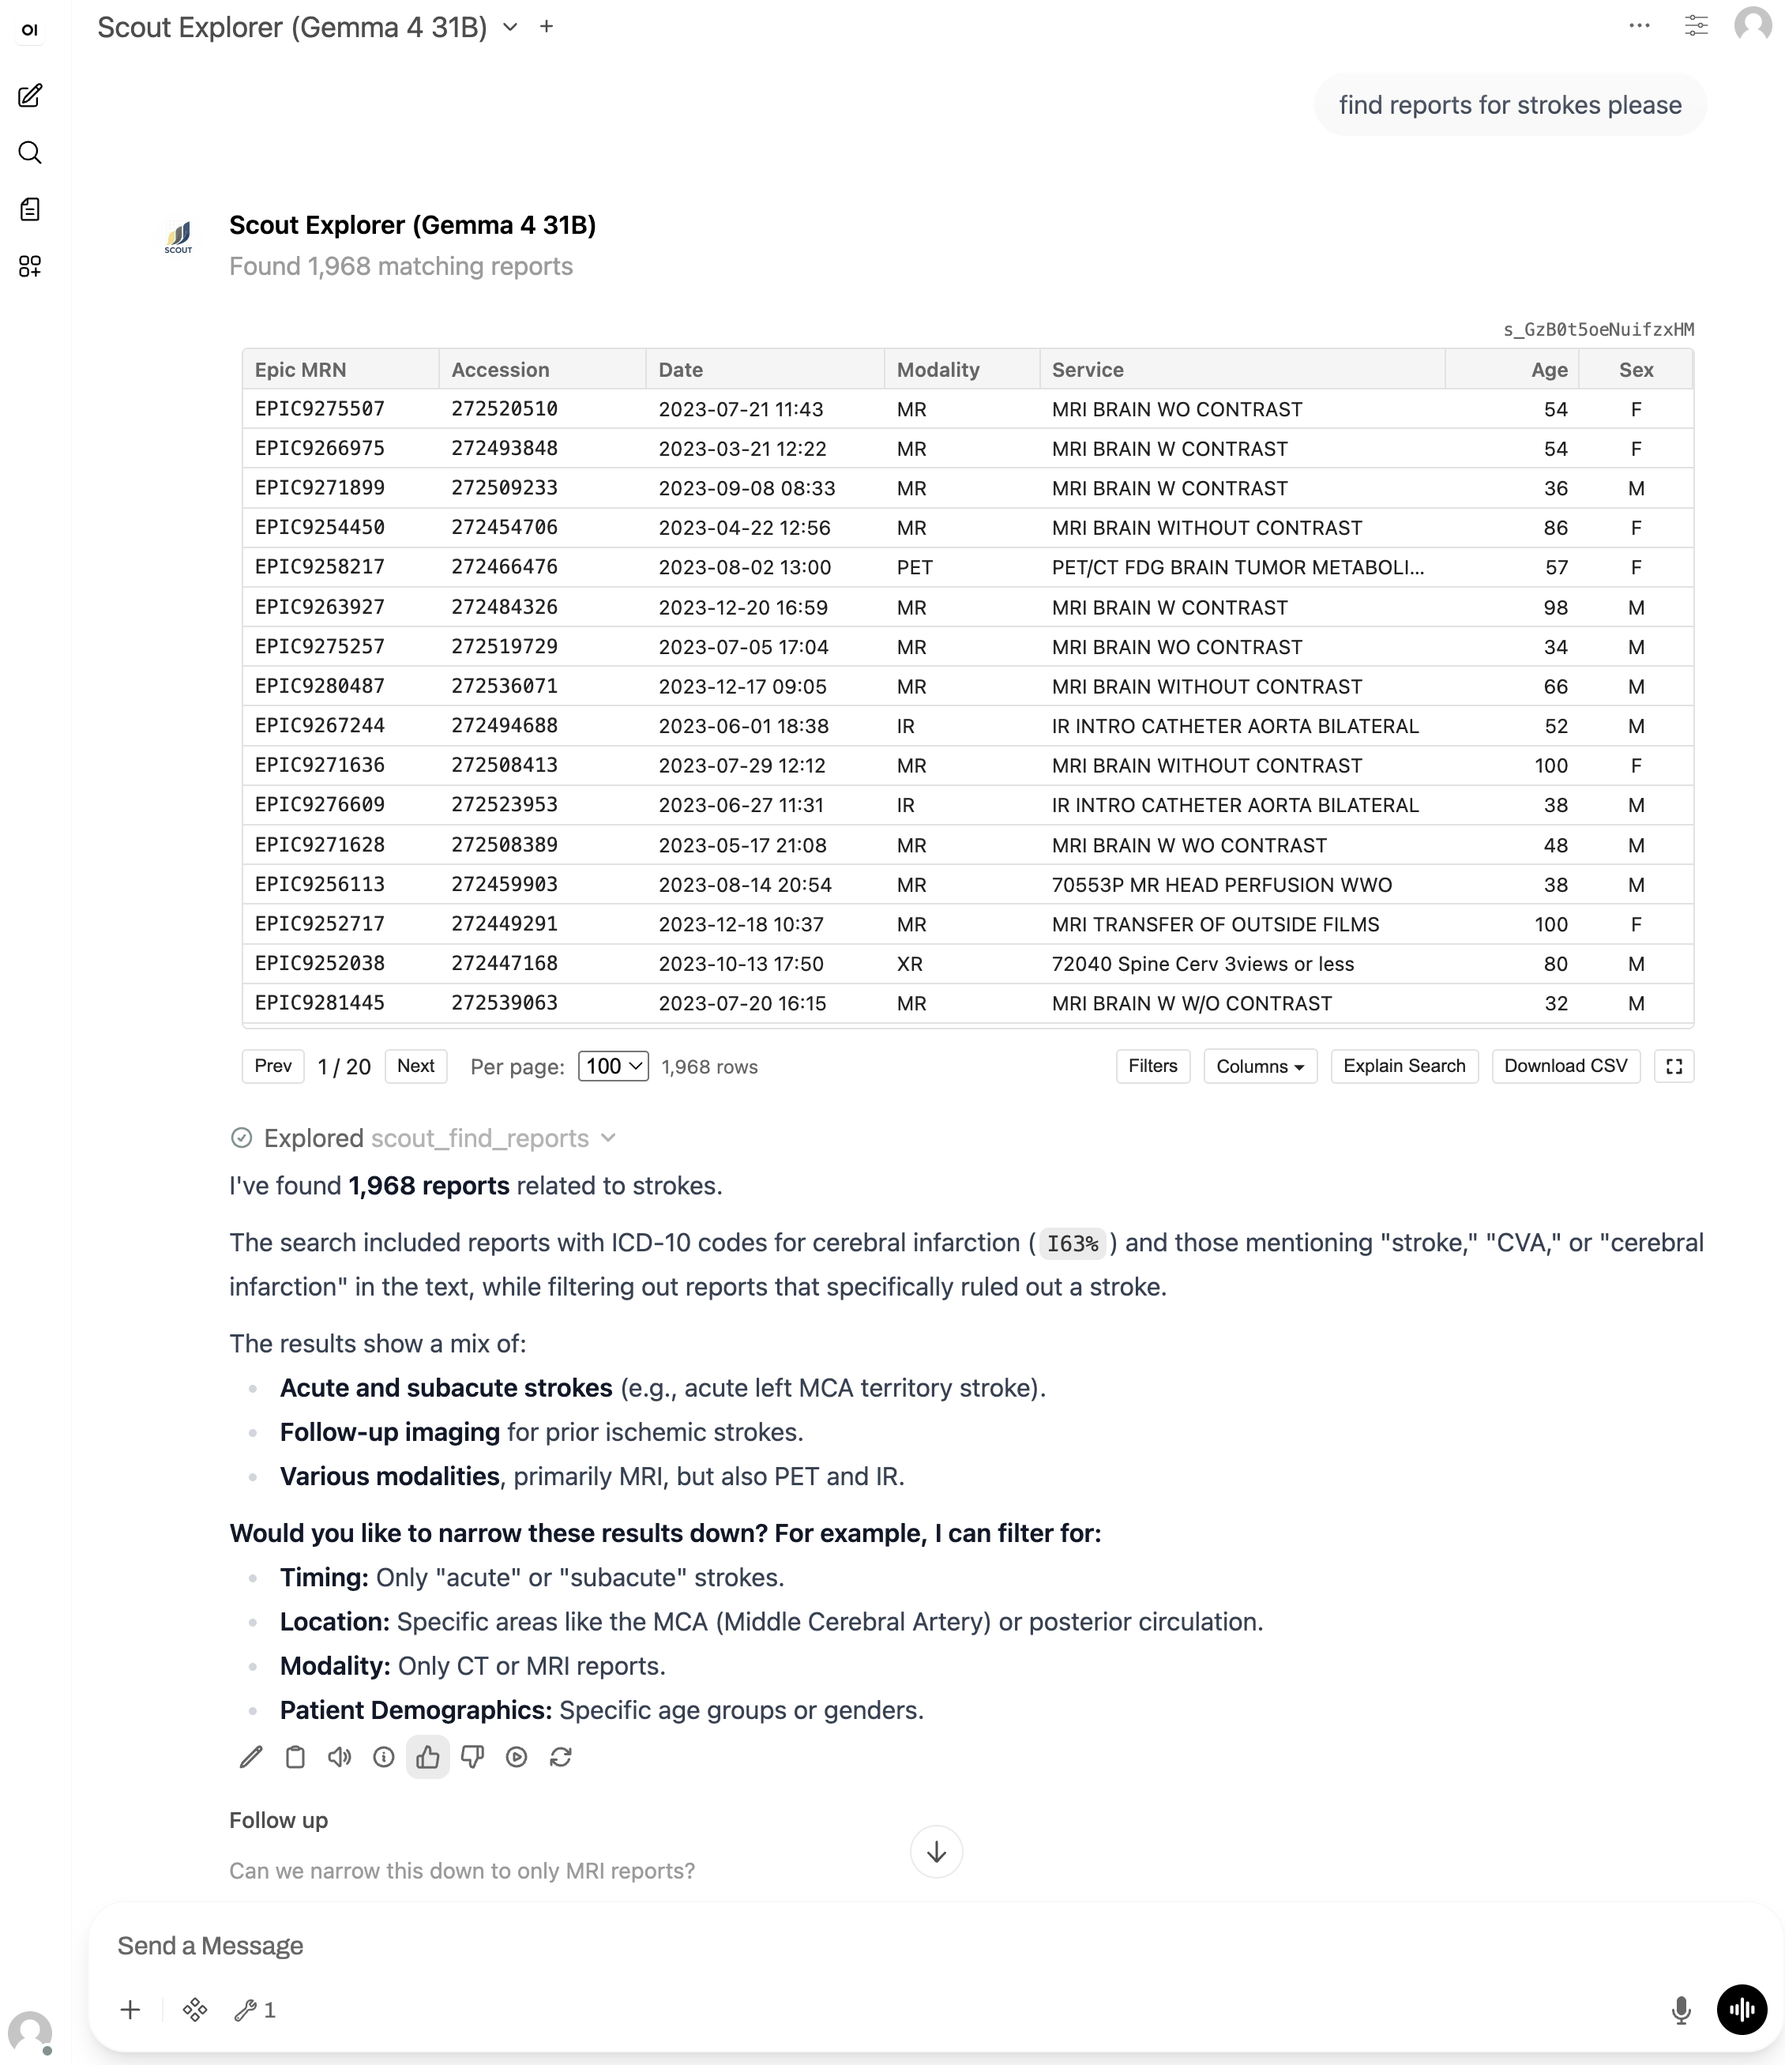
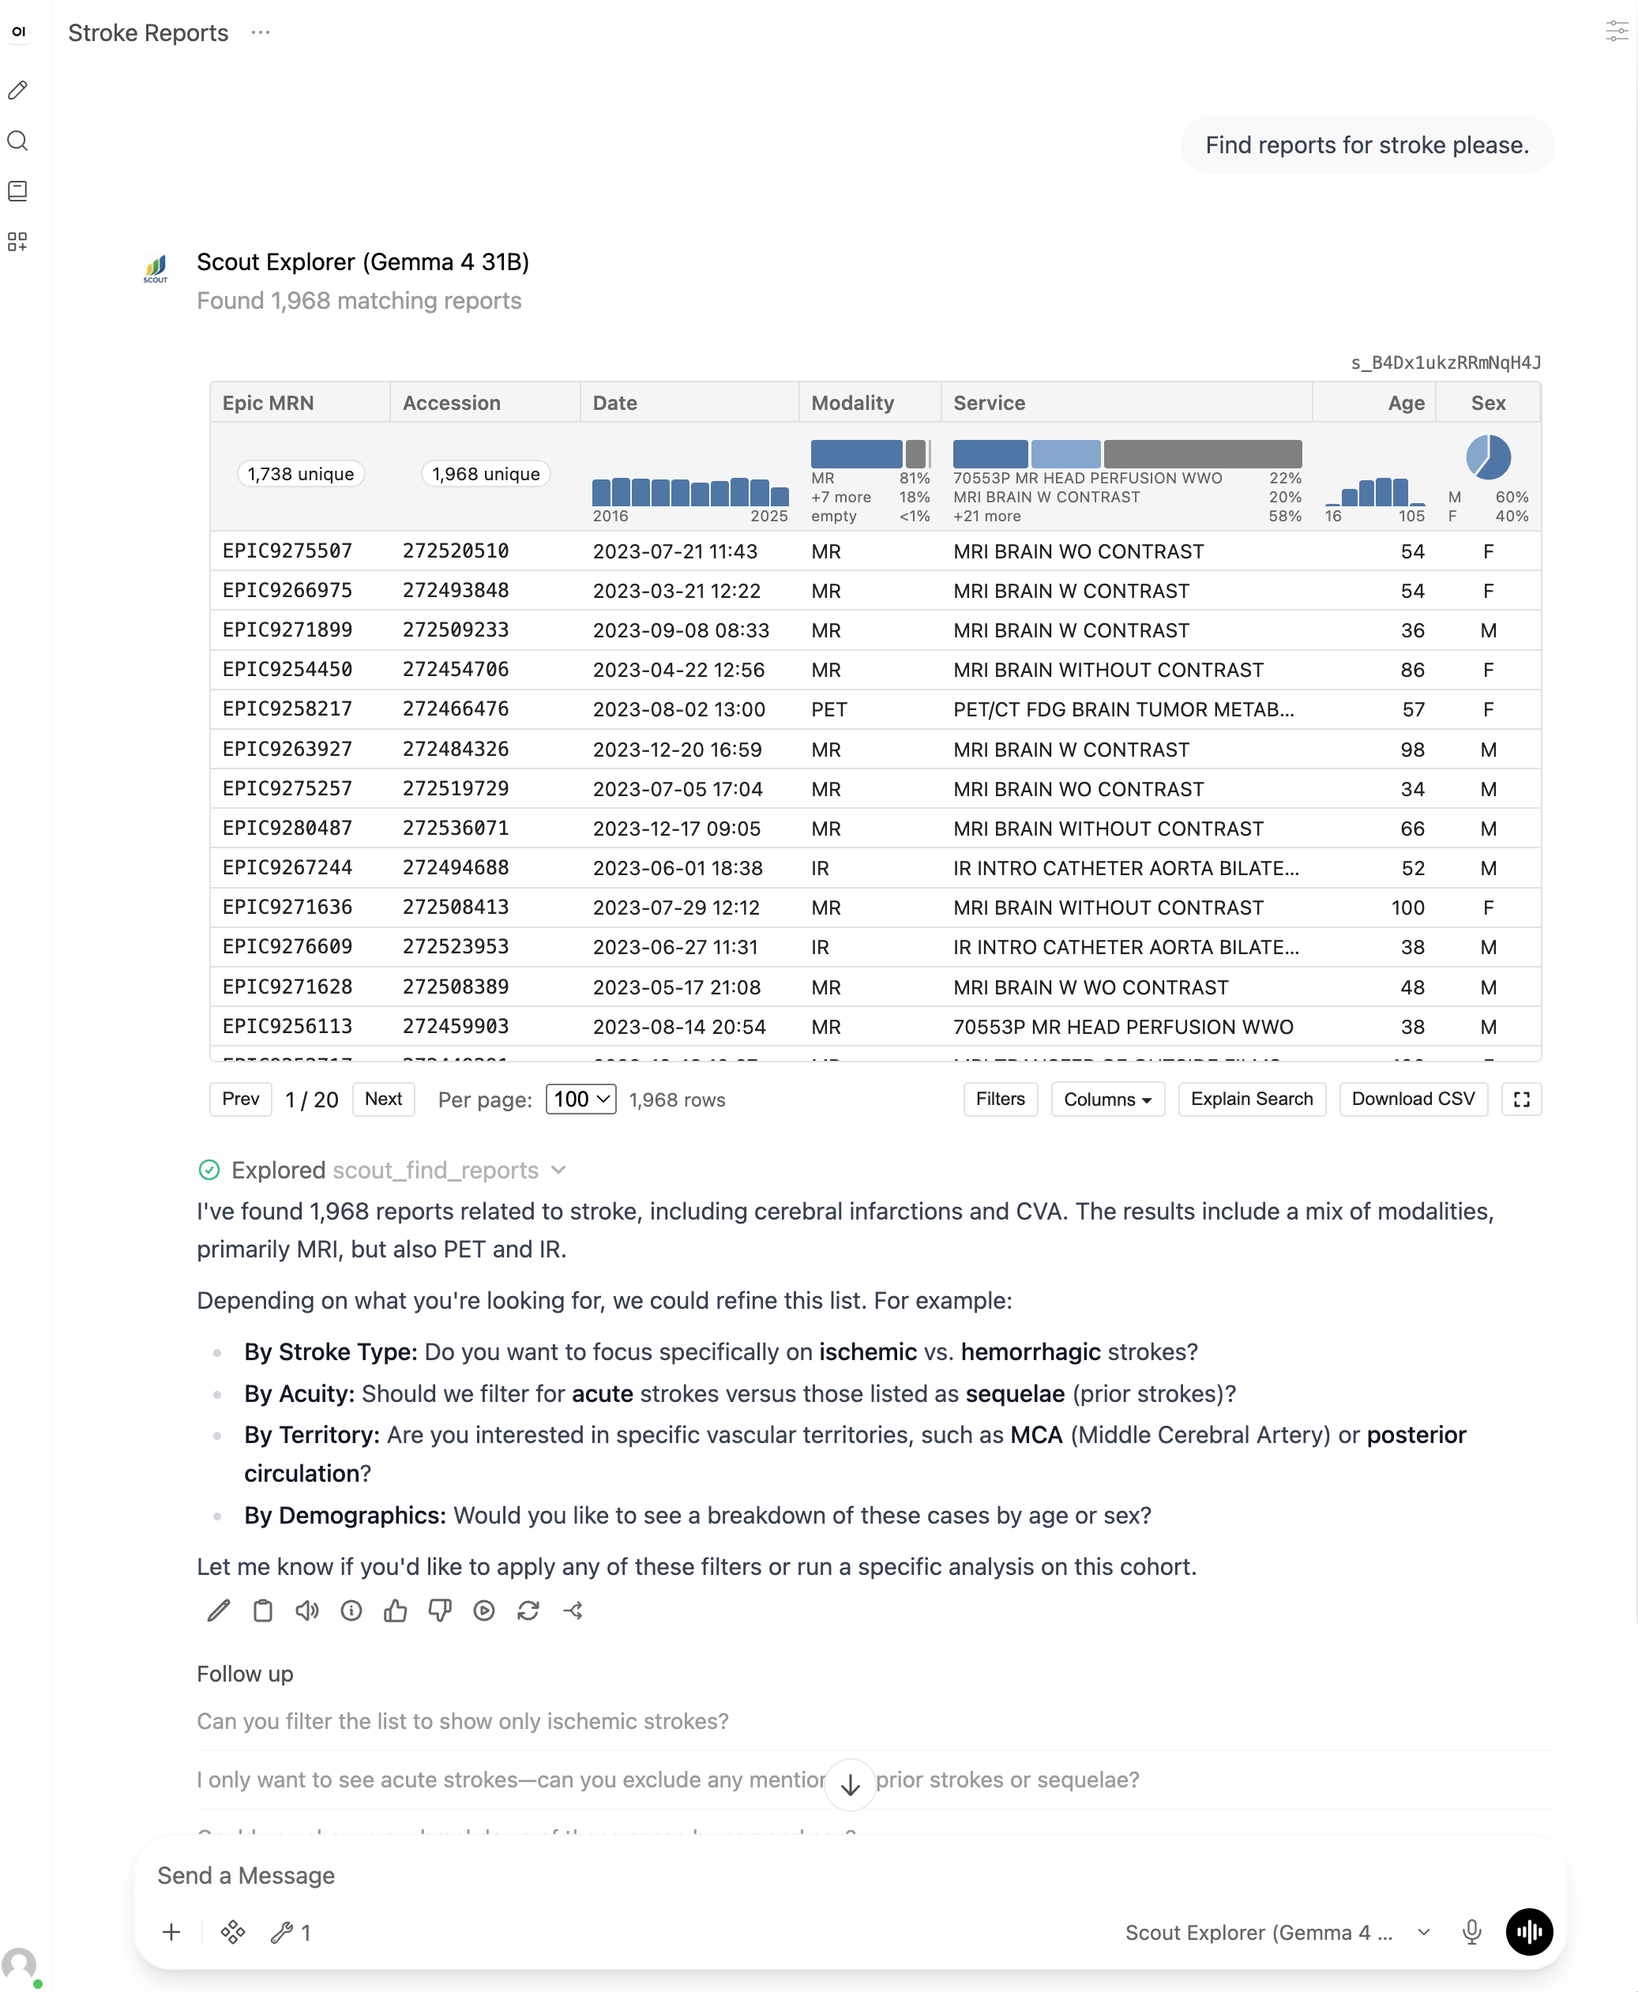
docs(report-viewer): document the column profile row, update screenshots

diff --git a/docs/source/user/chat.md b/docs/source/user/chat.md
@@ -71,7 +71,7 @@ The report viewer fetches the whole cohort each time you open a chat, which can 
 
 ![Report viewer embedded in chat](../images/ScoutReportViewer.png)
 
-Click a column header to sort. The bottom toolbar handles paging, column visibility, filtering and other options.
+Click a column header to sort. Under each header is a one-line summary of that column across the whole result set, a histogram for ages and dates, a bar for categories like modality, and a pie chart for sex. The bottom toolbar handles paging, column visibility, filtering and other options.
 
 - **Explain Search** shows what the search matched, which table it read, and the SQL.
 - **Download CSV** exports your current filters, sort order, and visible columns, not the whole original search.
@@ -79,7 +79,7 @@ Click a column header to sort. The bottom toolbar handles paging, column visibil
 
 ### Filtering and Refining
 
-There are two ways to narrow a cohort. **Filters** hides rows from the set already loaded, and clearing them brings the rows back. Going through chat instead produces fresh SQL and a **new** saved search, leaving the original intact to compare or return to.
+There are two ways to narrow a cohort. **Filters** hides rows from the set already loaded, and clearing them brings the rows back. The column summaries update to match whatever's currently visible. Going through chat instead produces fresh SQL and a **new** saved search, leaving the original intact to compare or return to.
 
 The filter dialog offers age and date ranges, sex, the modalities present in your results, and contains-matches on service, Epic MRN, Patient MPI, accession, and facility. Only fields your search returned appear.
 
